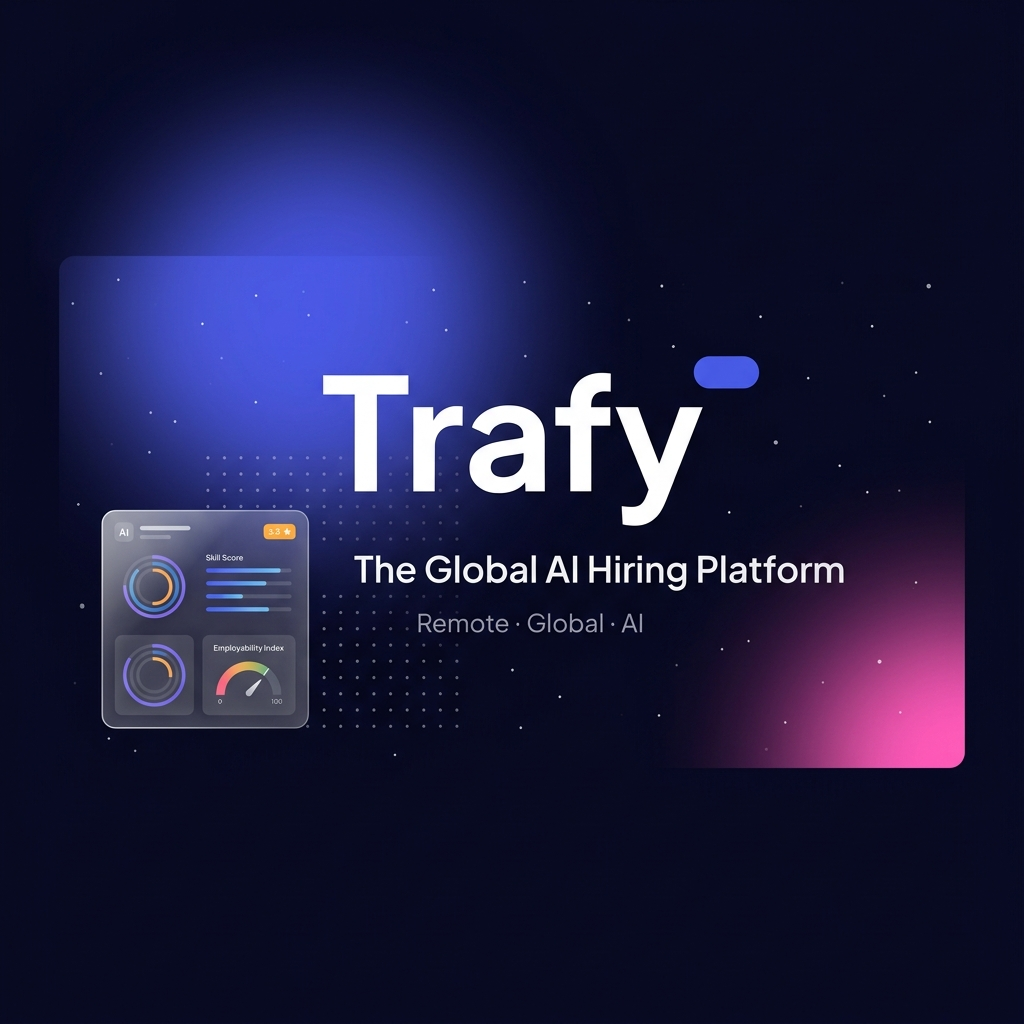
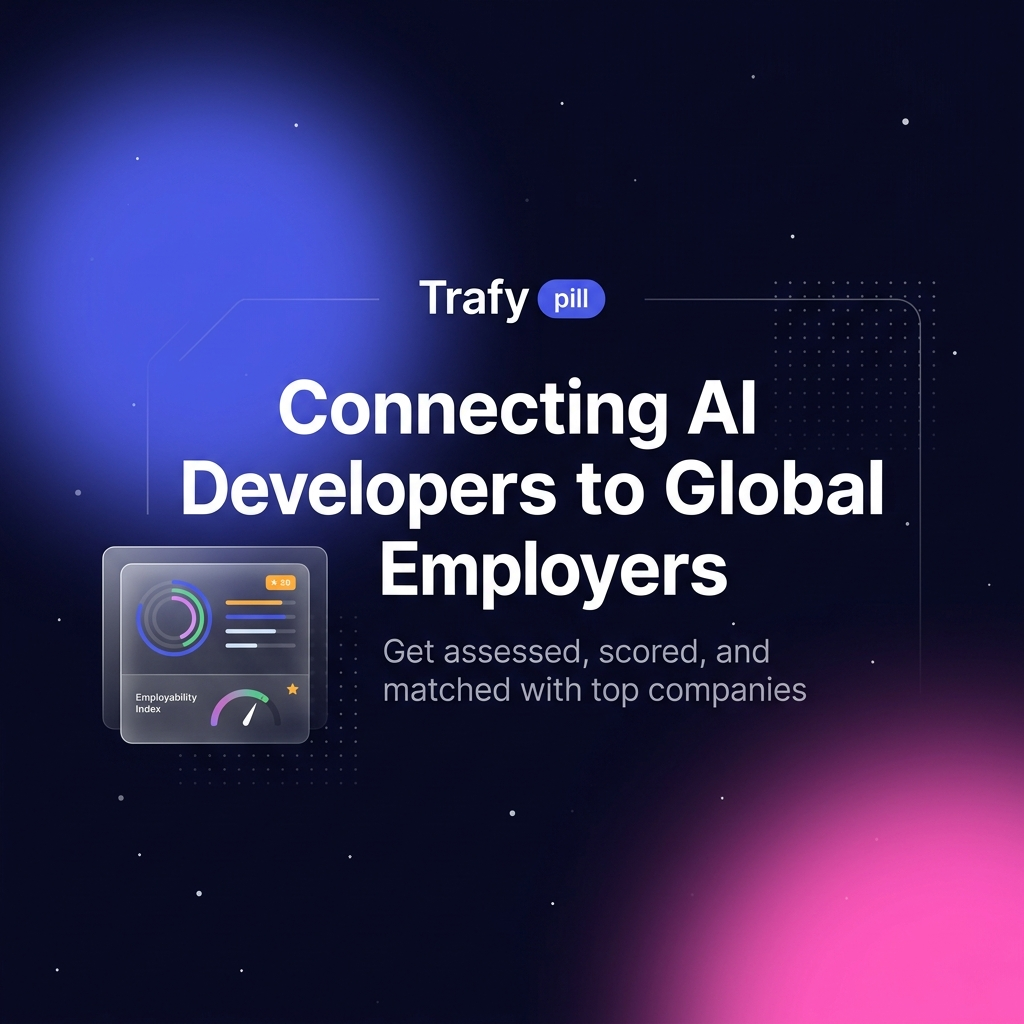
.

diff --git a/src/sections/Hero.tsx b/src/sections/Hero.tsx
@@ -17,7 +17,7 @@ export default function Hero() {
         <div className="grid items-center gap-14 lg:grid-cols-2">
           <div>
             <motion.div initial={{ opacity: 0, y: 10 }} animate={{ opacity: 1, y: 0 }} transition={{ duration: 0.5 }}>
-              <SectionTag>For Talent &amp; International Employers</SectionTag>
+              <SectionTag>For AI Talent &amp; Global Employers</SectionTag>
             </motion.div>
 
             <motion.h1
@@ -26,11 +26,10 @@ export default function Hero() {
               transition={{ duration: 0.6, delay: 0.1 }}
               className="mt-6 font-display text-5xl font-bold leading-[1.05] tracking-tight text-white sm:text-6xl"
             >
-              The{" "}
+              Connecting AI Developers to{" "}
               <span className="relative inline-block rounded-lg bg-green-hard px-2 py-0.5 text-white">
-                Global AI Hiring
-              </span>{" "}
-              Platform
+                Global Employers
+              </span>
               <span className="caret h-[0.85em] translate-y-1" />
             </motion.h1>
 
@@ -40,9 +39,7 @@ export default function Hero() {
               transition={{ duration: 0.6, delay: 0.22 }}
               className="mt-6 max-w-lg text-lg leading-relaxed text-white/65"
             >
-              Connected with international employers. Assessed, scored, and
-              matched. Start working with the world's top AI companies from
-              anywhere.
+              Get assessed, scored, and matched with top international companies. Work remotely from anywhere.
             </motion.p>
 
             <motion.div
